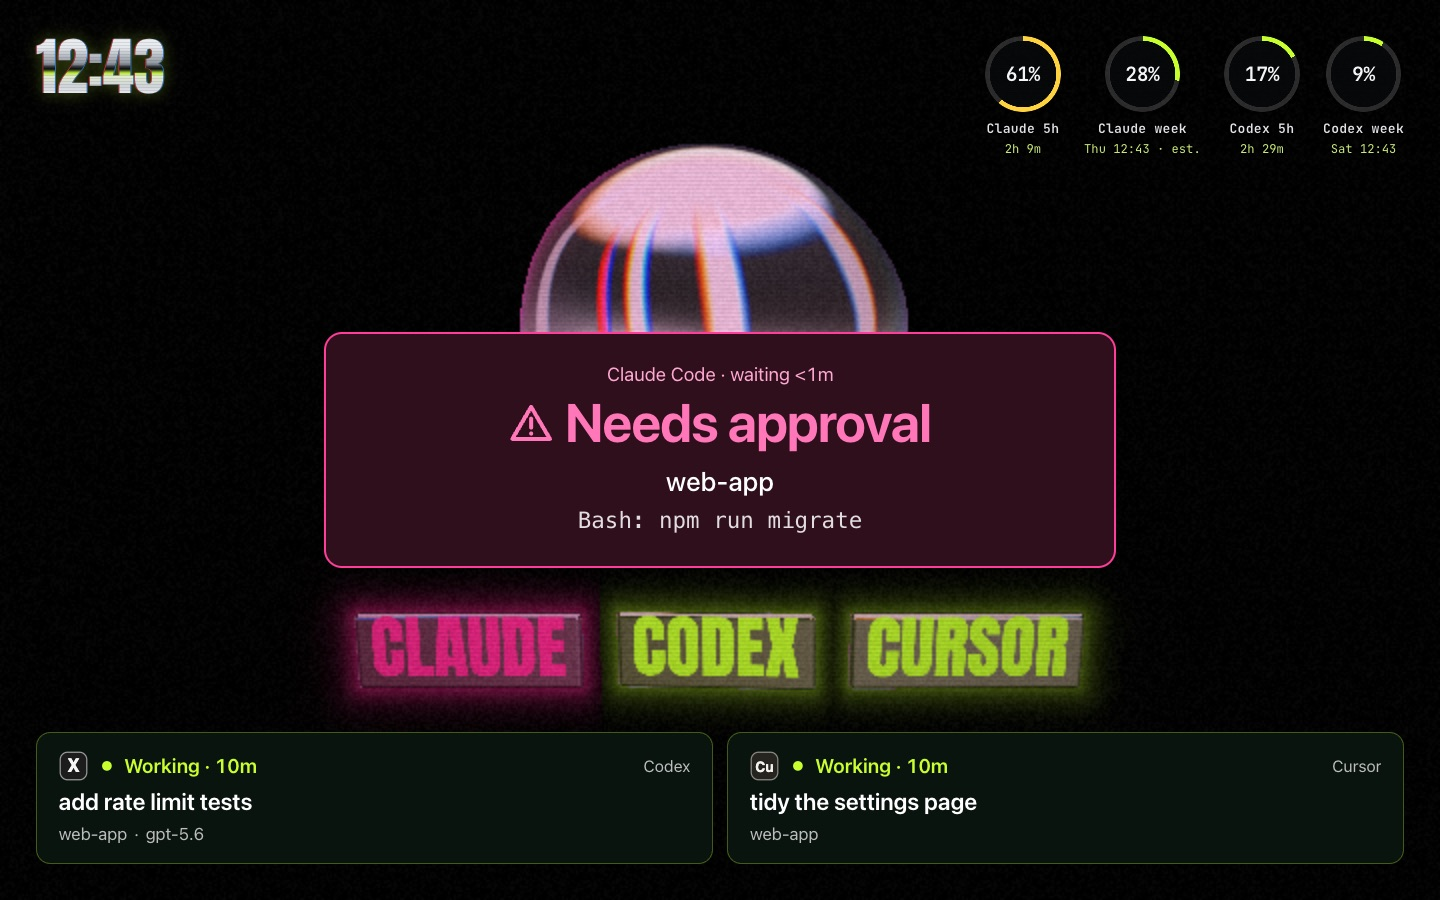
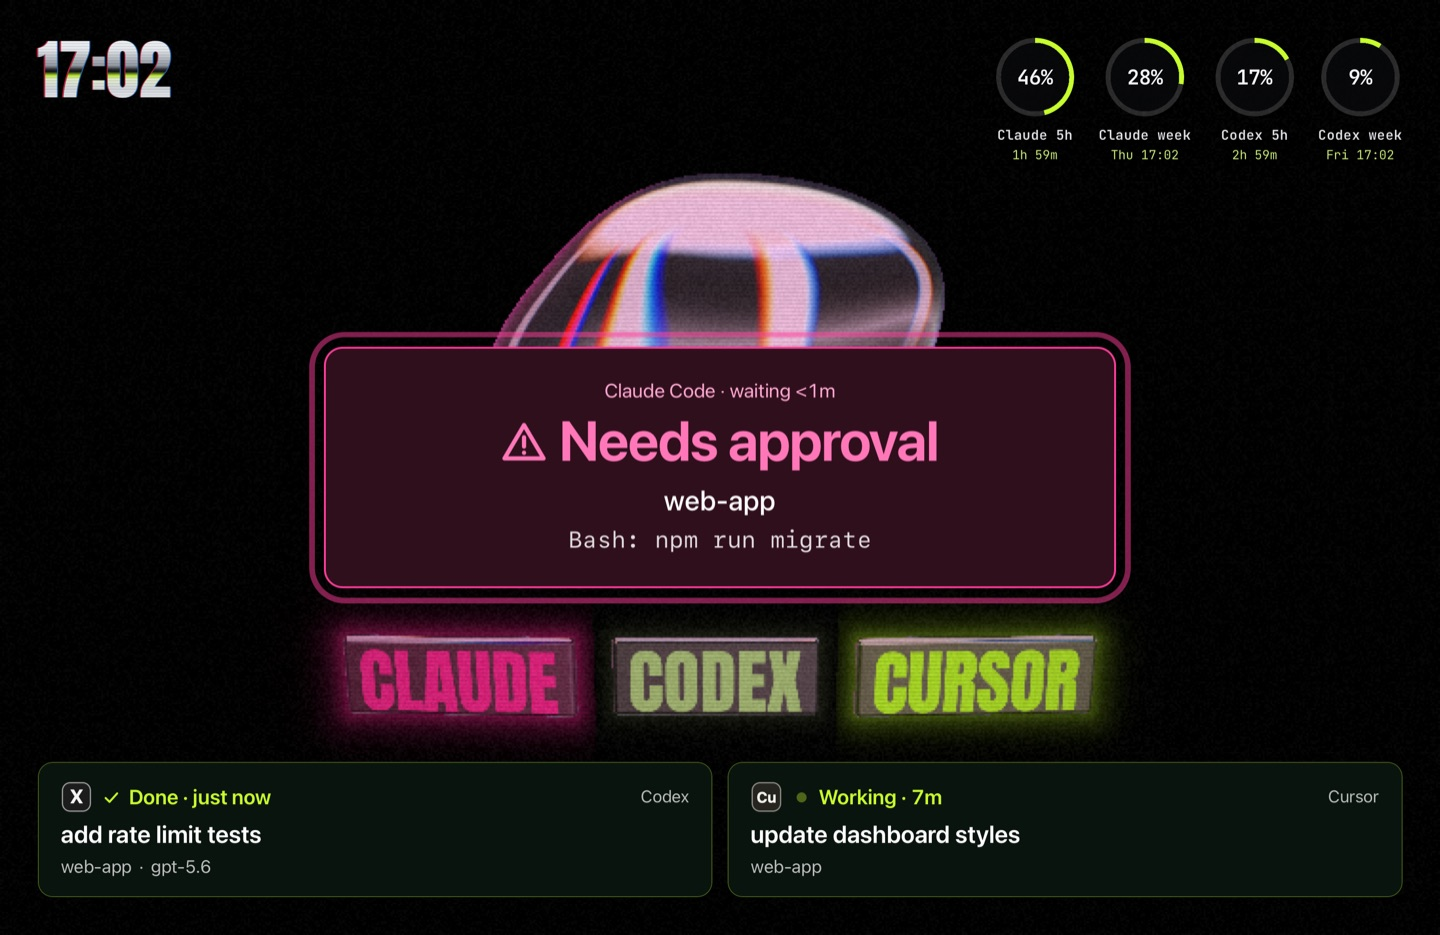
docs: add real screen saver screenshots for Chrome and Matrix

diff --git a/docs/media/README.md b/docs/media/README.md
@@ -4,15 +4,28 @@ The pictures and the video at the top of the main [README](../../README.md). Eve
 
 ## The files
 
-| File | What it shows | How it was made |
-| --- | --- | --- |
-| `chrome-running.jpg` | Chrome theme, three agents working, the clock and four limit rings. | Screenshot harness, made-up data. |
-| `chrome-approval.jpg` | Chrome theme, Claude Code waiting for approval. | Screenshot harness, made-up data. |
-| `chrome-idle.jpg` | Chrome theme with no tasks: the clock and the rings. | Screenshot harness, made-up data. |
-| `chrome-secondary.jpg` | Chrome theme on a second display: the background and the clock. | Screenshot harness, made-up data. |
-| `demo.gif` | Not recorded yet. A short loop of the demo scene, shown at the top of the README. | The steps below. |
+| File | What it shows |
+| --- | --- |
+| `chrome-working.jpg` | Chrome theme, three agents working. |
+| `chrome-approval.jpg` | Chrome theme, Claude Code waiting for approval. |
+| `chrome-done.jpg` | Chrome theme, all three tasks finished. |
+| `chrome-idle.jpg` | Chrome theme with no tasks: the clock and the rings. |
+| `matrix-working.jpg` | Default theme on the Matrix background, three agents working. |
+| `matrix-approval.jpg` | Default theme on the Matrix background, waiting for approval. |
+| `demo.gif` | Not recorded yet. A short loop of the demo scene, shown at the top of the README. See the steps below. |
 
-The screenshots come from the screenshot harness in [Test and share](../guides/test-and-share.md), at 1440 by 900, turned into JPEG at quality 80 with `sips -s format jpeg -s formatOptions 80 shot.png --out shot.jpg`. Keep each file well under 400 KB.
+There is no picture of a second display: the harness window is always on the main display, and the screen saver takes the secondary role only on a second display. There is no Calm picture because the aerial footage is Apple's.
+
+## Remake the screenshots
+
+The stills come from the real screen saver in the screenshot harness (see [Test and share](../guides/test-and-share.md), section 2), with made-up data from the demo scene (`internal/demo`). The harness window is 1512 by 982 points, so the PNG is 3024 by 1964 on a Retina display.
+
+1. Build: `cd web && npm run build`, `saver/build.sh`, `swiftc -O tools/harness/harness.swift -o build/harness`.
+2. Make a temporary data folder `D` with `runtime/` and `extensions/` copied from `build/runtime` and `build/extensions`. Do not use your real data folder.
+3. Write `$D/state.json` from the demo scene: a small throwaway Go program inside the repo module (it needs `internal/`) that resolves the view with `view.Resolve`, `view.AgentViews` and `view.AgentOrder` as the service does, takes cards and limits from `demo.Scene(elapsedMs, 60000, nowMs)`, and writes the file with `statefile.Build` and `statefile.WriteAtomic`. Use 3000 ms for working, 12000 ms for approval, 26000 ms for finished, and no cards for idle. The theme is `builtin.chrome` or `builtin.default`. Do not commit the program.
+4. Run the harness right after writing the file: `AGS_DATA_DIR="$D" build/harness build/AgentScreensaver.saver 8 shot.png`. It takes the picture halfway through the 8 seconds.
+5. Look at each picture. Redo it if it is blank or the fonts are missing.
+6. Make the JPEG: `sips --resampleWidth 1440 -s format jpeg -s formatOptions 80 shot.png --out docs/media/name.jpg`. Keep each file well under 400 KB.
 
 ## Record the demo video and GIF
 

diff --git a/README.md b/README.md
@@ -16,23 +16,31 @@ You start a long task in Claude Code, Codex or Cursor and walk away. When you co
 
 ## What it does
 
-![Three agents working, with the clock and four limit rings](docs/media/chrome-running.jpg)
+Each agent task gets a card: what it works on, for how long, its project, model and branch, and how full the context is. The rings show how much of your 5-hour and weekly limits is used and when they reset. When an agent waits for your approval, a large card says which agent, which project and what it wants to run. A sound plays when the screen saver is showing. With no tasks, you see the clock and your limits. A second display shows only the background and the clock.
 
-Each agent task gets a card: what it works on, for how long, its project, model and branch, and how full the context is. The rings show how much of your 5-hour and weekly limits is used and when they reset.
+The pictures are of the real screen saver with made-up data. First the Chrome theme:
 
-![An approval card in the middle of the screen](docs/media/chrome-approval.jpg)
+<table>
+  <tr>
+    <td><img src="docs/media/chrome-working.jpg" alt="Chrome theme with three agents working, the clock and four limit rings"><br>Three agents working</td>
+    <td><img src="docs/media/chrome-approval.jpg" alt="Chrome theme with a large approval card in the middle"><br>An agent needs approval</td>
+  </tr>
+  <tr>
+    <td><img src="docs/media/chrome-done.jpg" alt="Chrome theme with three finished tasks"><br>All three tasks finished</td>
+    <td><img src="docs/media/chrome-idle.jpg" alt="Chrome theme with only the clock and the rings"><br>No tasks: the clock and your limits</td>
+  </tr>
+</table>
 
-When an agent waits for your approval, a large card says which agent, which project and what it wants to run. A sound plays when the screen saver is showing.
+The Default theme, on a Matrix background:
 
-![Only the clock and the rings, no cards](docs/media/chrome-idle.jpg)
+<table>
+  <tr>
+    <td><img src="docs/media/matrix-working.jpg" alt="Default theme on a Matrix background with three agents working"><br>Three agents working</td>
+    <td><img src="docs/media/matrix-approval.jpg" alt="Default theme on a Matrix background with an approval card"><br>An agent needs approval</td>
+  </tr>
+</table>
 
-With no tasks, you see the clock and your limits.
-
-![A second display with only the background and the clock](docs/media/chrome-secondary.jpg)
-
-A second display shows only the background and the clock.
-
-These pictures show the Chrome theme with made-up data. Two more themes are built in: Default, on a Matrix background, and Calm, on the Apple aerial videos that macOS has already downloaded. The Chrome theme needs WebGL2 and uses more CPU than the others, see [Known limits](docs/known-limits.md).
+A third theme, Calm, plays the Apple aerial videos that macOS has already downloaded. It has no picture here because the footage belongs to Apple. The Chrome theme needs WebGL2 and uses more CPU than the others, see [Known limits](docs/known-limits.md).
 
 ## Install
 
